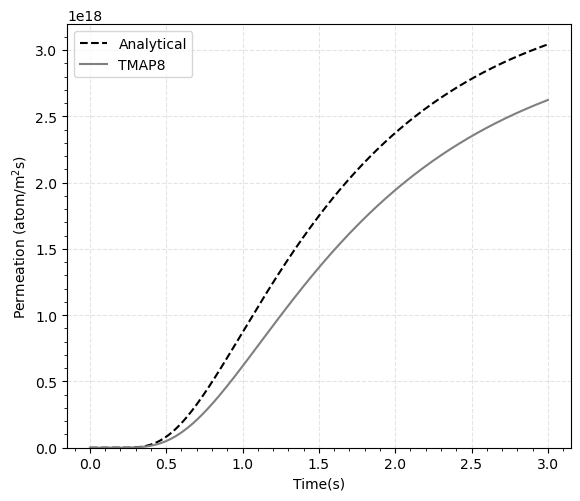
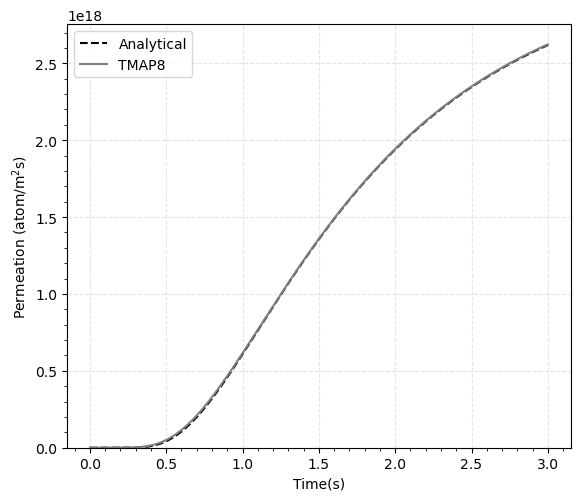
Fixed an issue with the analytical solution for problem val-1d (Refs #12).  TMAP8 is now in excellent agreement with the solution.  Also updated the documentation to reflect changes to equation 7 from the original TMAP4 V&V report that were never completely propagated through to values and symbols i

diff --git a/test/tests/val-1d/comparison_val-1d.py b/test/tests/val-1d/comparison_val-1d.py
@@ -36,7 +36,7 @@ epsilon = k * epsilon_k_ratio #epsilon: trap energy
 c = 0.0001              # dissolved gas atom fraction
 zeta = ((lambdaa**2) * nu * np.exp((Ed - epsilon) / (k * T)) / (rho * D_o)) + (c / rho)
 
-D = D_o * np.exp((epsilon - Ed) / (k * T))                 # diffusivity (m^2/s)
+D = 1.0                 # diffusivity (m^2/s)
 D_eff = D / (1 + (1/zeta))   # Effective diffusivity (m^2/s)
 
 l = 1                   # slab thickness (m)

diff --git a/doc/content/verification/val-1d.md b/doc/content/verification/val-1d.md
@@ -31,7 +31,7 @@ $T$ = temperature
 
 $c$ = dissolved gas atom fraction
 
-The discriminant for which regime is dominant is the ratio of $\zeta$ to c/$\rho$. If $\zeta$ > c/$\rho$ then the effective diffusivity regime applies, and the permeation transient is identical to the standard diffusion transient but with the diffusivity replaced by an effective diffusivity.
+The discriminant for which regime is dominant is the ratio of $\zeta$ to c/$\rho$. If $\zeta$ $\gg$ c/$\rho$ then the effective diffusivity regime applies, and the permeation transient is identical to the standard diffusion transient but with the diffusivity replaced by an effective diffusivity.
 
 \begin{equation}
 \label{eqn:Deff}
@@ -56,7 +56,7 @@ where $l$ is the thickness of the slab and D is the diffusivity of the gas throu
 
 [!cite](longhurst2005verification) where $\tau_{b_e}$ is defined in [eqn:tau_be]
 
-In the deep-trapping limit, $\zeta$ < c/$\rho$, and no permeation occurs until essentially all the traps have been filled. Then permeation rapidly turns on to its state value. The breakthrough time is given by
+In the deep-trapping limit, $\zeta$ $\approx$ c/$\rho$, and no permeation occurs until essentially all the traps have been filled. Then permeation rapidly turns on to its state value. The breakthrough time is given by
 
 \begin{equation}
 \label{eqn:tau_bd}
@@ -70,7 +70,7 @@ Using TMAP8 we examine these two different regimes, one where diffusion is the r
 
 ## Diffusion-limited
 
-For the effective diffusivity limit, we selected $\epsilon/k = 100 K$ to give $\zeta = 90.48 c/\rho$. The comparison results are presented in [val-1d_comparison_diffusion].
+For the effective diffusivity limit, we selected $\epsilon/k = 100 K$ to give $\zeta = 91.47 c/\rho$. The comparison results are presented in [val-1d_comparison_diffusion].
 
 !media figures/val-1d_comparison_diffusion.png
     style=width:50%;margin-bottom:2%
@@ -79,7 +79,7 @@ For the effective diffusivity limit, we selected $\epsilon/k = 100 K$ to give $\
 
 ## Trapping-limited
 
-For the deep trapping limit we took $\epsilon/k = 10000 K$ to give $\zeta = 0.04533 c/\rho$.  The comparison results are presented in [val-1d_comparison_trapping].
+For the deep trapping limit we took $\epsilon/k = 10000 K$ to give $\zeta = 1.00454 c/\rho$.  The comparison results are presented in [val-1d_comparison_trapping].
 
 !media figures/val-1d_comparison_trapping.png
     style=width:50%;margin-bottom:2%
